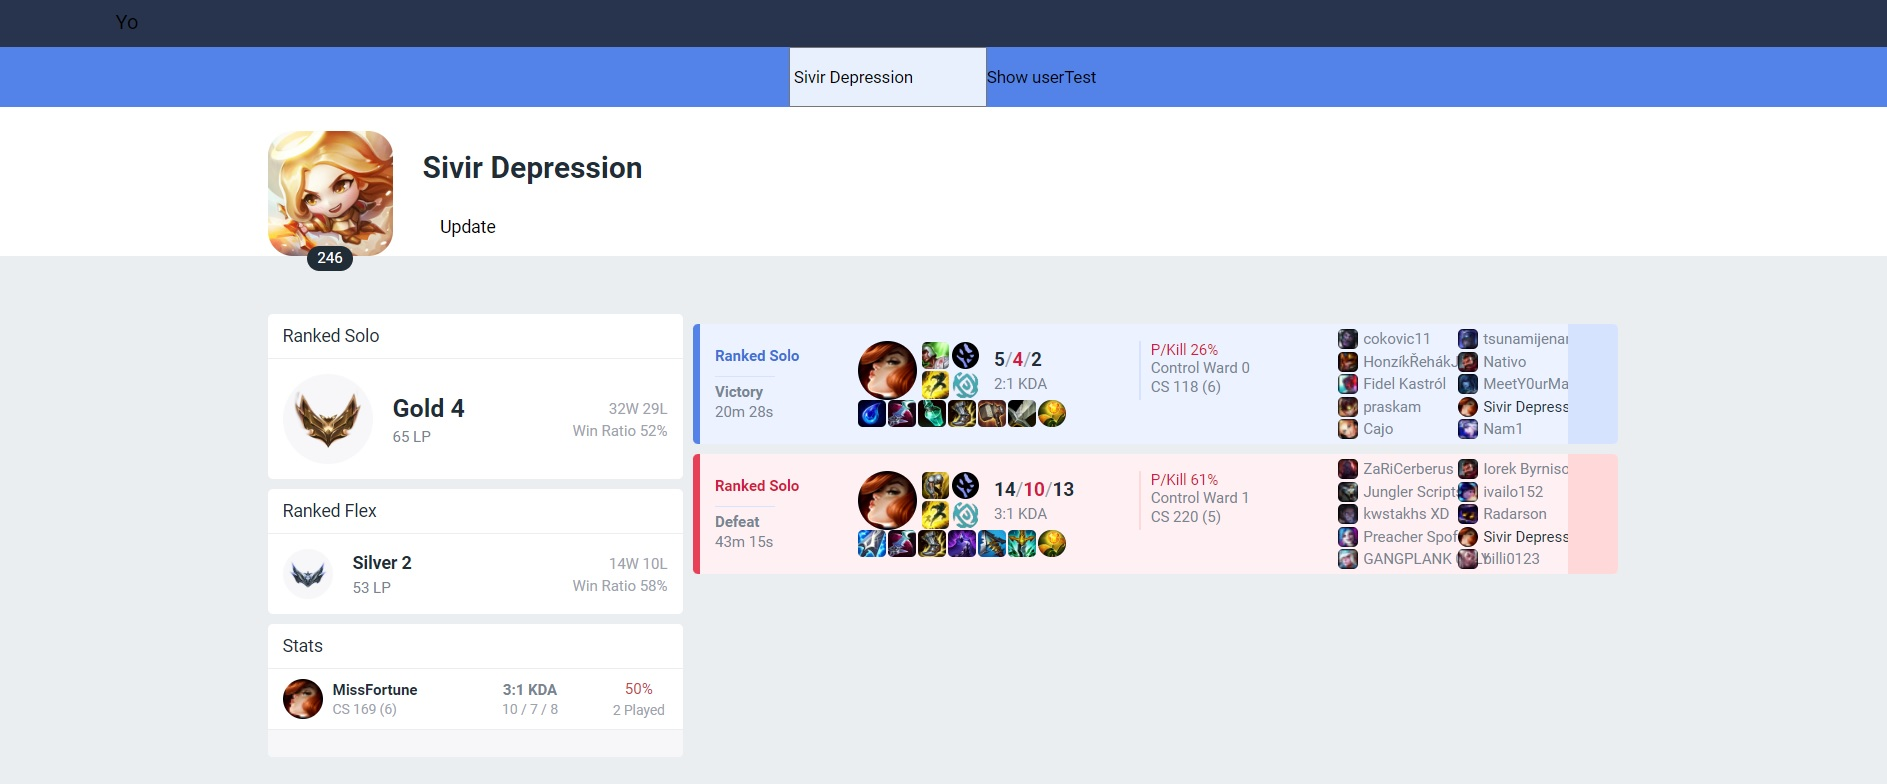
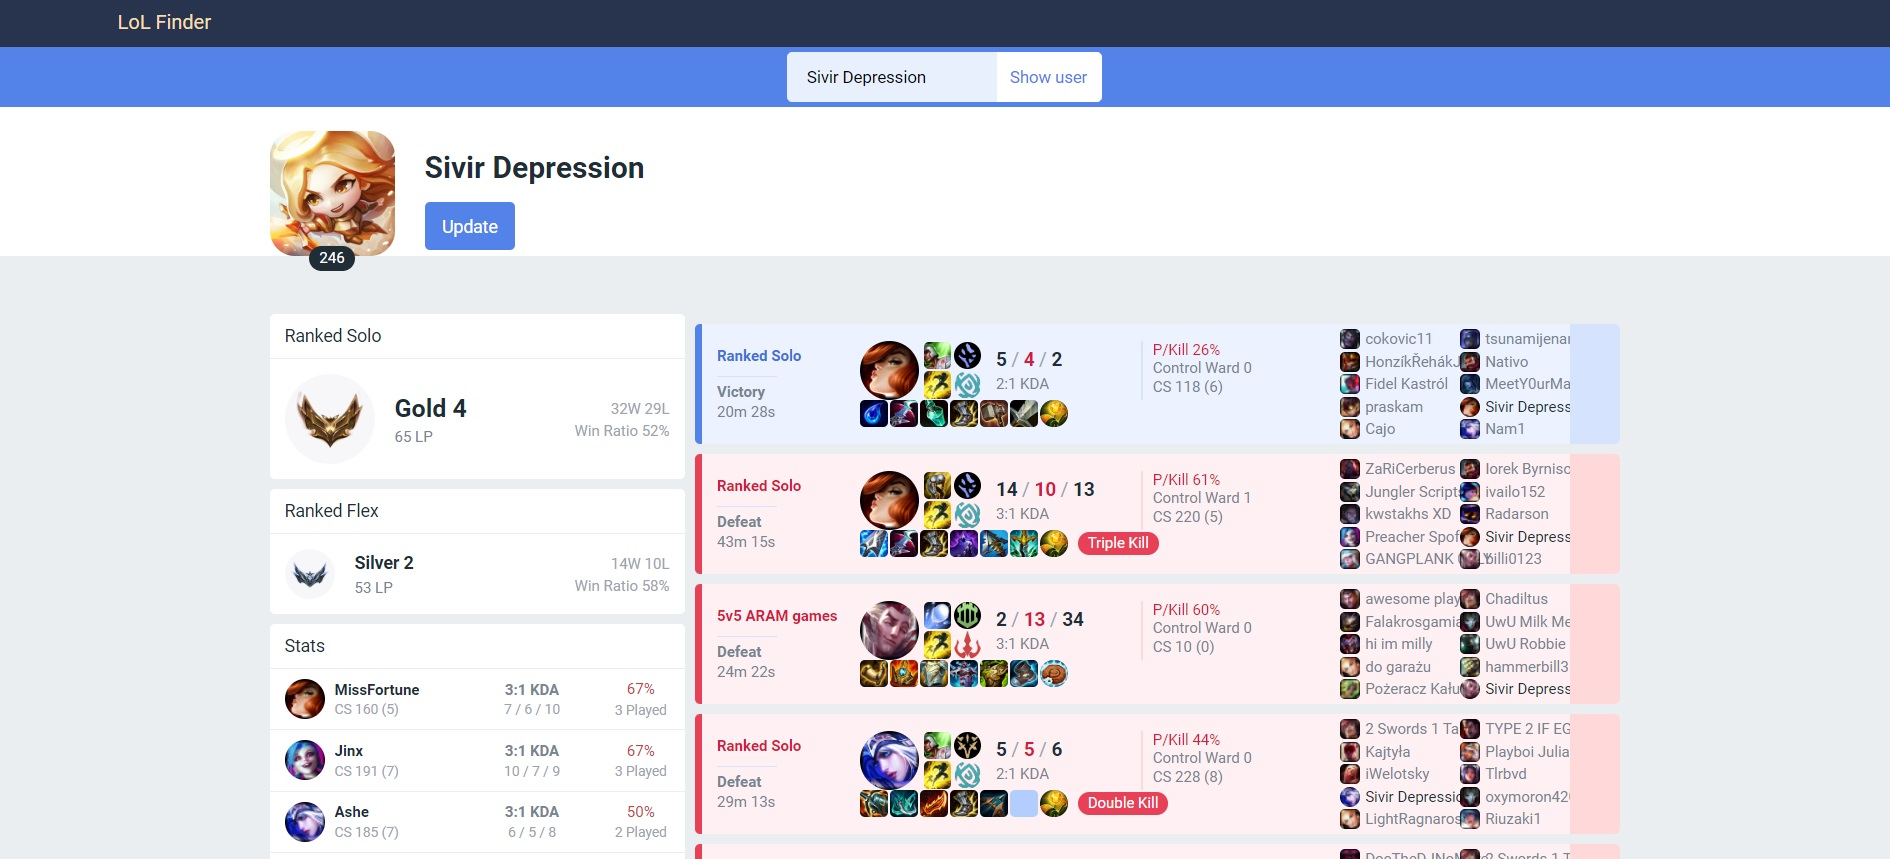
small visual update

diff --git a/client/index.html b/client/index.html
@@ -70,6 +70,33 @@
 				background: transparent;
 				cursor: pointer;
 			}
+			
+			/* Test */
+			#username {
+				border: solid 4px #5383E8;
+				border-radius: 8px 0px 0px 8px;
+				border-right: none;
+				padding-left: 16px;
+				background-color: #e8f0fe;
+			}
+			
+			#username:focus {
+				border: solid 4px #7d9fe6;
+				border-right: none;
+				background-color: #e8f0fe;
+				resize: none;
+				outline: none;
+			}
+			
+			#get {
+				background-color: #fff;
+				border: solid 4px #5383E8;
+				border-radius: 0px 8px 8px 0px;
+				color: #5383E8;
+				border-left: none;
+				padding-right: 12px;
+				padding-left: 10px;
+			}
 		</style>
 		
 		<!-- header -->
@@ -87,6 +114,8 @@
 				display: flex;
 				-webkit-box-align: center;
 				align-items: center;
+				
+				    color: wheat;
 			}
 			
 			.navigation-banner {
@@ -176,6 +205,14 @@
 				font-size: 14px;
 				margin-right: 8px;
 			}
+			
+			.button-update {
+				position: relative;
+				border: #5383E8;
+				background: #5383E8;
+				color: #FFF;
+			}
+			
 			
 			.content-header-bottom {
 				padding: 4px 0;
@@ -516,6 +553,20 @@
 			.match-summary-block .info {
 				margin-left: 8px;
 			}
+				.match-summary-block .info > div:nth-of-type(2) {
+					/* Support */
+					display: -webkit-box;
+					display: -webkit-flex;
+					display: -ms-flexbox;
+					-webkit-align-items: center;
+					-ms-flex-align: center;
+					/* Support */
+					
+					display: flex;
+					-webkit-box-align: center;
+					align-items: center;
+				}
+				
 				.match-summary-block .info > div:nth-of-type(1) {
 					/* Support */
 					display: -webkit-box;
@@ -832,13 +883,11 @@
 		<div id="main">
 			<header>
 				<div class="main-banner">
-					Yo
+					LoL Finder
 				</div>
 				<div class="navigation-banner">
 					<input type="text" id="username"></input>
 					<button id="get">Show user</button>
-					
-					<button onclick="test()">Test</button>
 				</div>
 			</header>
 			<div id="content-header">
@@ -847,7 +896,7 @@
 					<div class="wrapper">
 						<div>
 							<div class="profile-icon">
-								<img id="profileIconId" src="" alt="Profile image"/>
+								<img id="profileIconId" src="http://ddragon.leagueoflegends.com/cdn/12.9.1/img/profileicon/29.png" alt="Profile image"/>
 								<div>
 									<span id="summonerLevel" class="level">0</span>
 								</div>
@@ -857,7 +906,7 @@
 									<span id="name" class="summoner-name">Summoner</span>
 								</div>
 								<div class="buttons">
-									<button id="update">Update</button>
+									<button id="update" class="button-update">Update</button>
 								</div>
 							</div>
 						</div>

diff --git a/client/scripts/main.js b/client/scripts/main.js
@@ -121,7 +121,7 @@ function updateProfile(summonerData, summonerMatchData) {
 				matchList.appendChild(matchListLi);
 				
 				temp = match;
-				matches.innerHTML += "<br>["+match.matchId+"]" + match.data.info.gameMode;
+				//matches.innerHTML += "<br>["+match.matchId+"]" + match.data.info.gameMode;
 				
 			});
 		}
@@ -329,6 +329,22 @@ function createMatchSummaryBlock(m, user){
 	
 	
 	infoDiv2.appendChild(items);
+	
+	var multiKill = document.createElement("div");
+	multiKill.classList.add("multi-kill");
+	if(user['pentaKills'] > 0){
+		multiKill.innerHTML = "Penta Kill";
+		infoDiv2.appendChild(multiKill);
+	} else if(user['quadraKills'] > 0) {
+		multiKill.innerHTML = "Quadra Kill";
+		infoDiv2.appendChild(multiKill);
+	} else if(user['tripleKills'] > 0) {
+		multiKill.innerHTML = "Triple Kill";
+		infoDiv2.appendChild(multiKill);
+	} else if(user['doubleKills'] > 0) {
+		multiKill.innerHTML = "Double Kill";
+		infoDiv2.appendChild(multiKill);
+	}
 	
 	info.appendChild(infoDiv1);
 	info.appendChild(infoDiv2);
